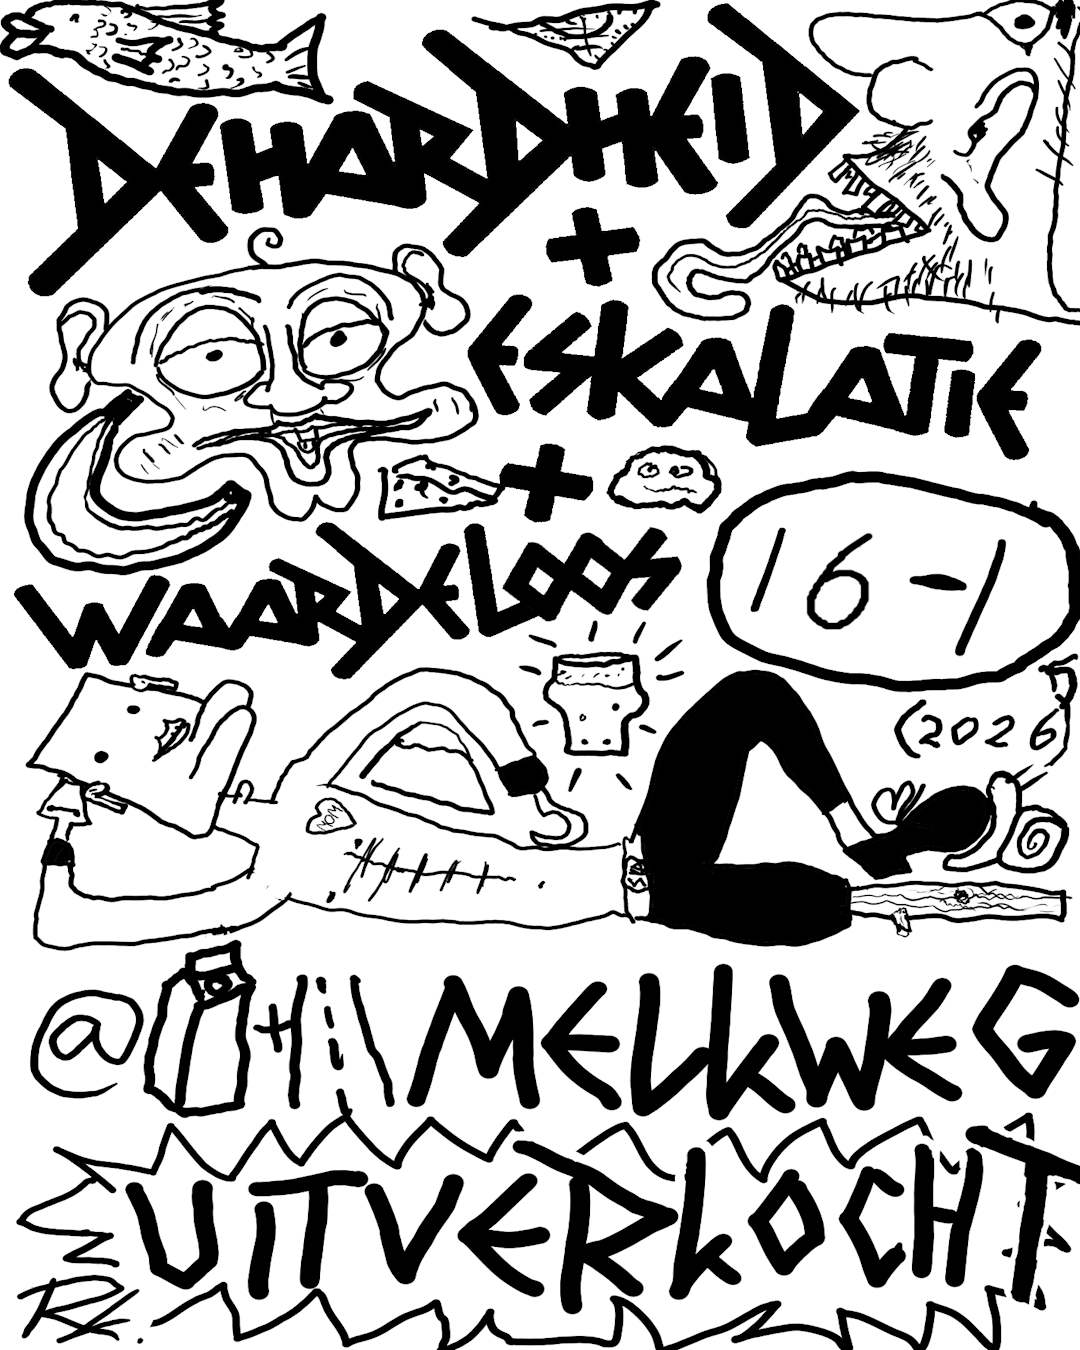
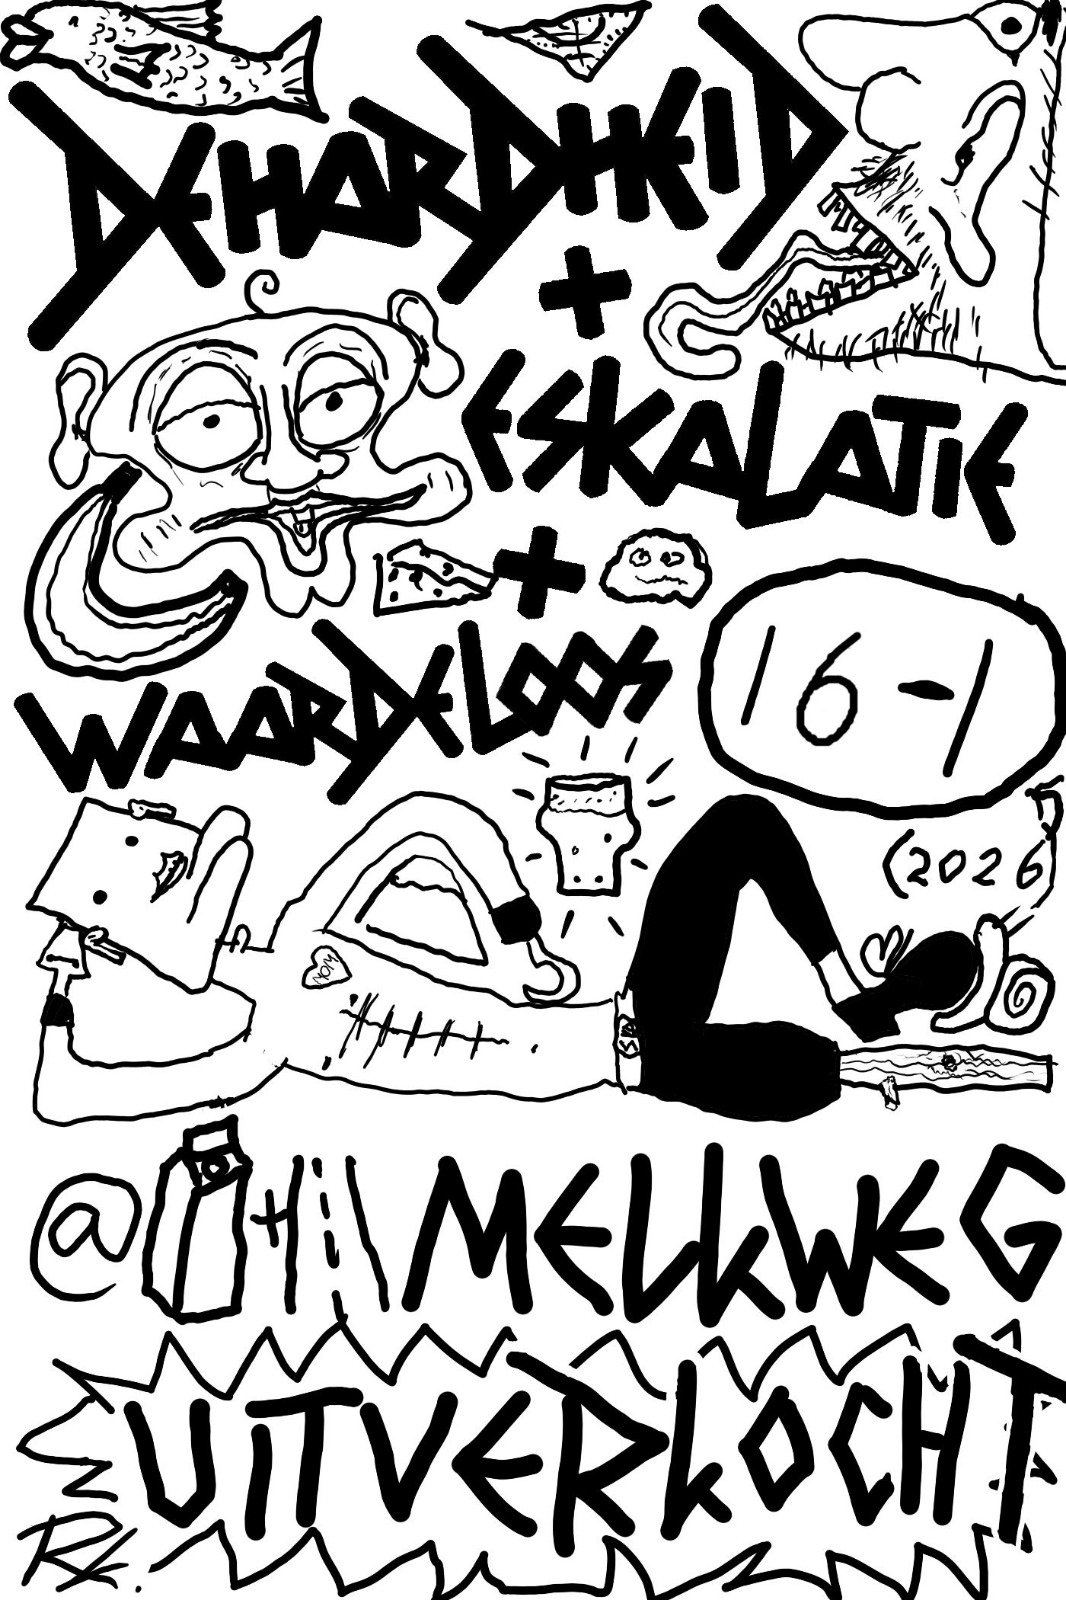
posterplaatje

diff --git a/Code/Blog.html b/Code/Blog.html
@@ -31,7 +31,9 @@
 			<table>
 				<td class="blog" style="width: 20%;">
 					<img src="../Media/blog/MelkwegPoster.jpeg" alt="band" style="width:100%;">
-					<p>Poster naar Rowan's ontwerp.</p>
+					<p>Twee posters maarliefst. Naar Rowan's ontwerp.</p>
+					<img src="../Media/blog/MelkwegPoster2.jpeg" alt="band" style="width:100%;">
+					
 				</td>
 				<td class="blog">
 					<h3>Eskalatie in het voorprogramma van de Hardheid | Door Daniël</h3>
